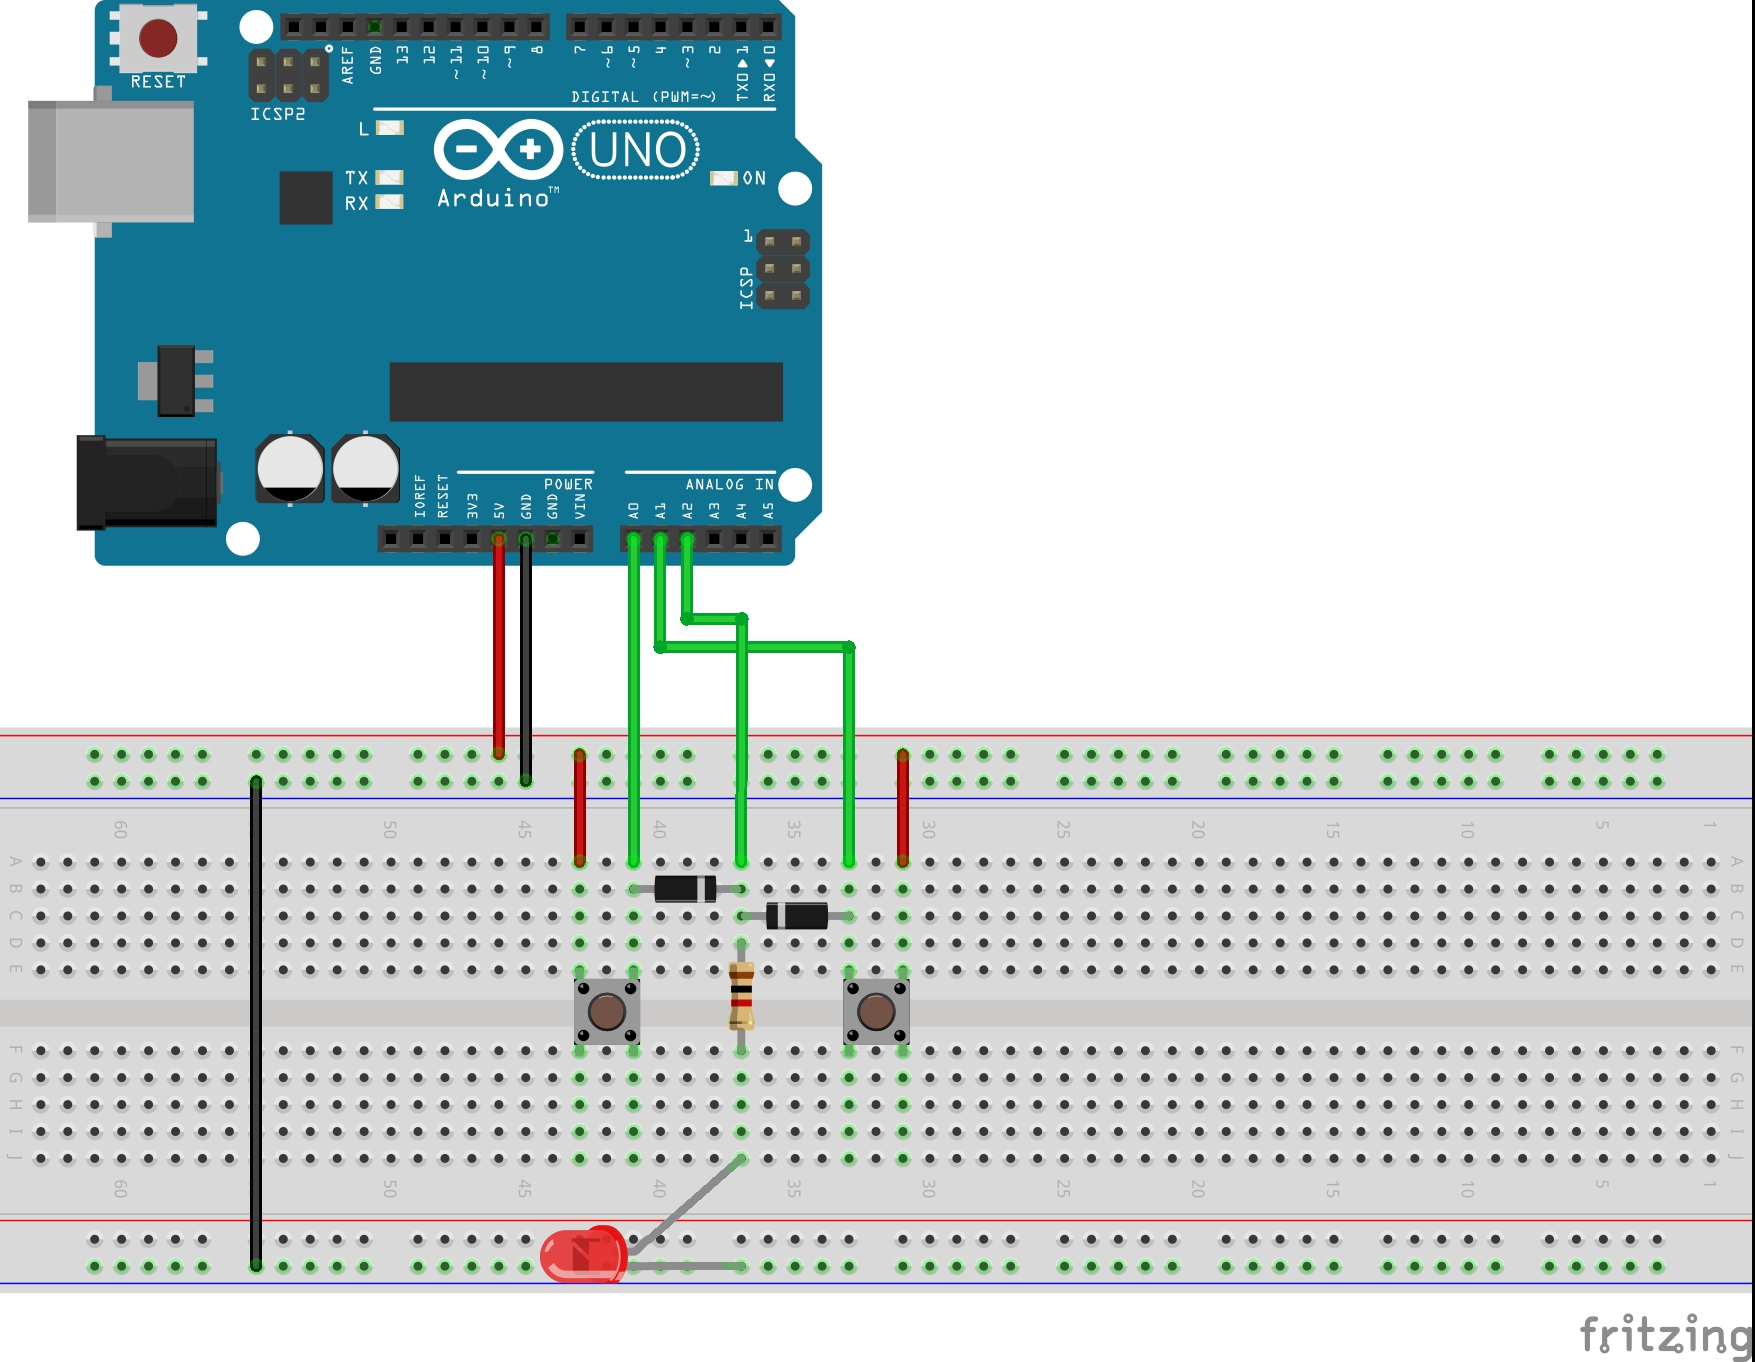
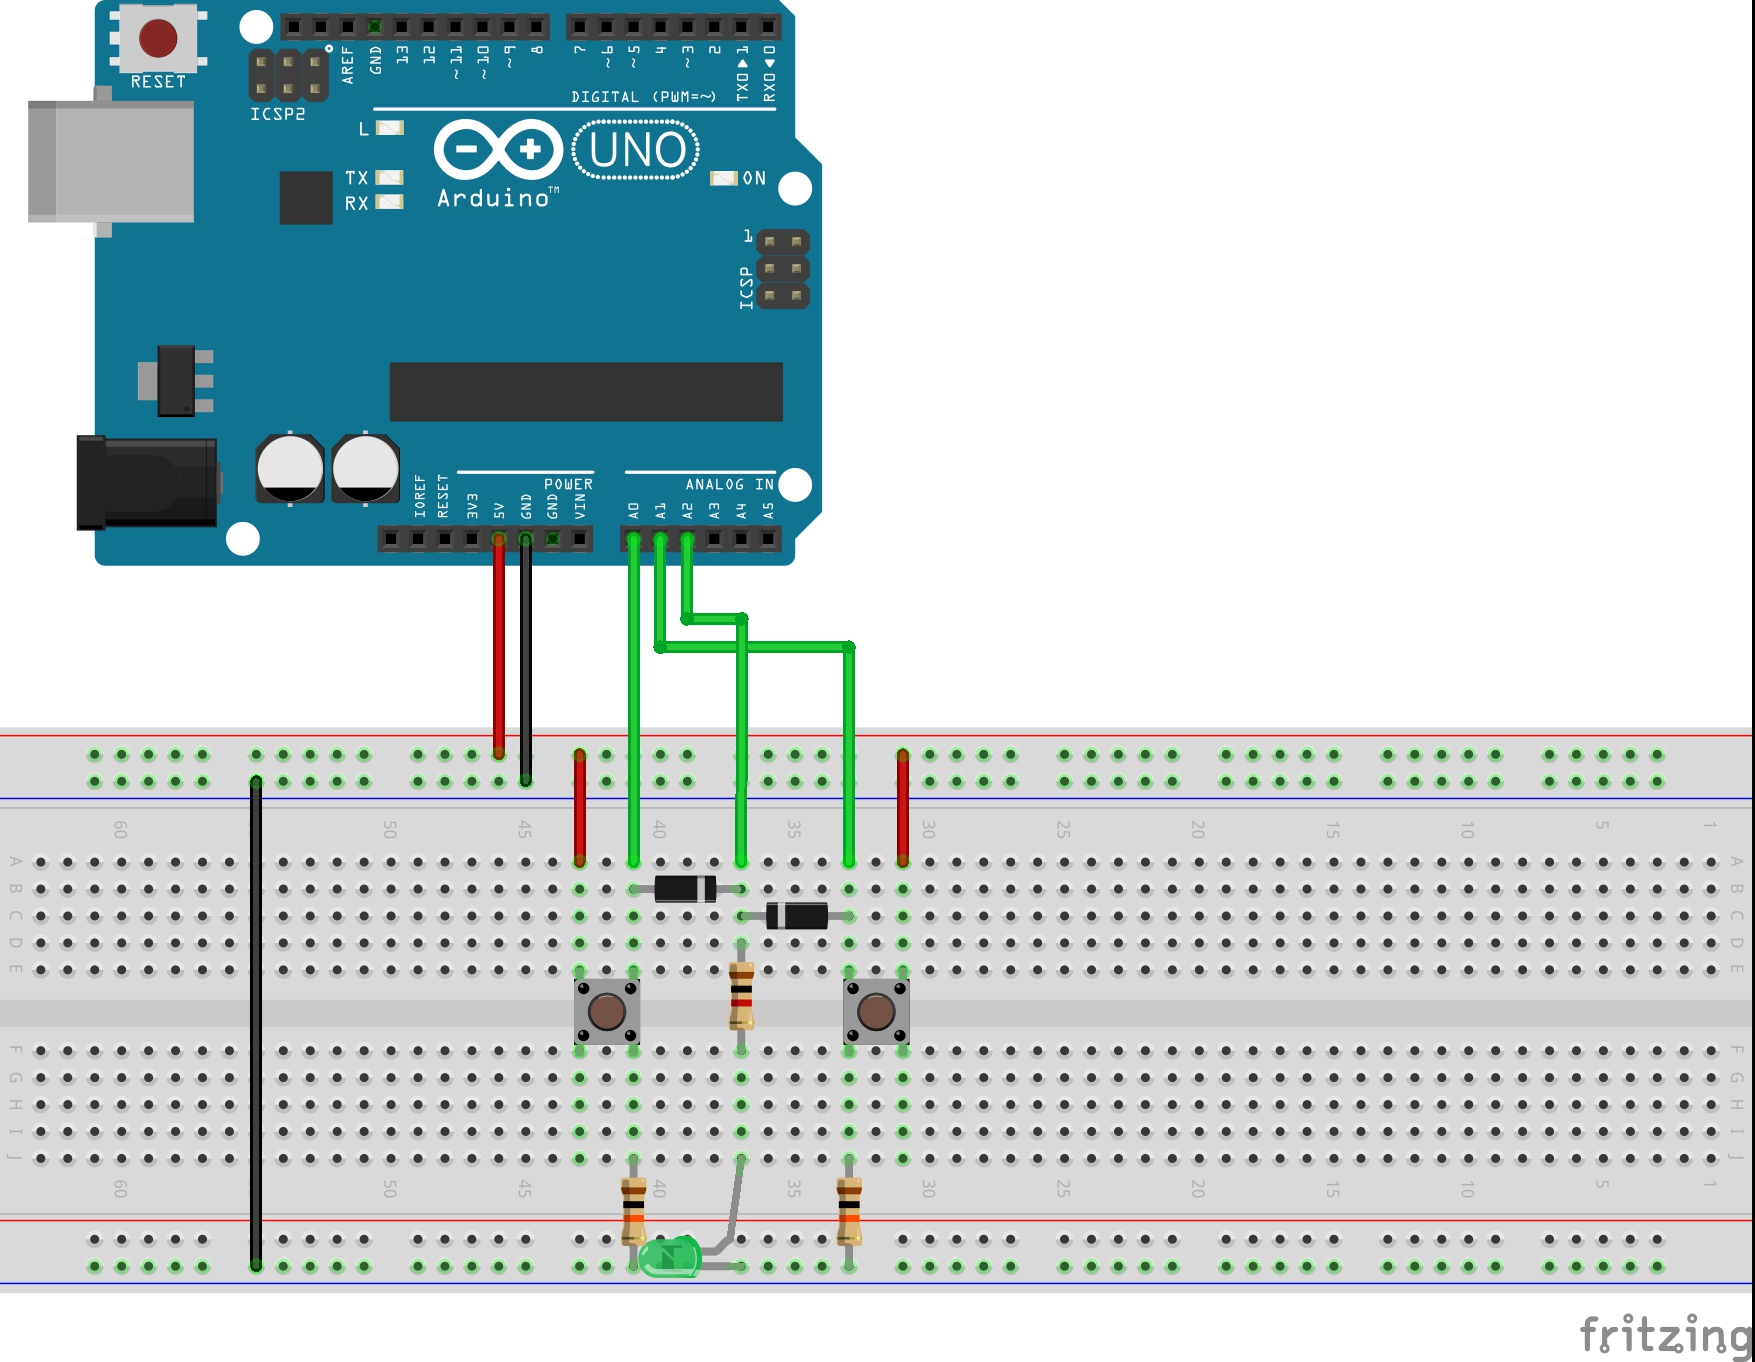
[DiodeLogic] OR improved

Changed region(s): [[0.3077, 0.8326, 0.4308, 0.9559], [0.4615, 0.8634, 0.4923, 0.9251]]

diff --git a/Electronics101/DiodeLogic/OR/README.md b/Electronics101/DiodeLogic/OR/README.md
@@ -22,14 +22,13 @@ In this circuit with VCC of 5V and where Vf is the diode forward voltage of appr
 * Out logical "0" == 0V
 * Out logical "1" == VCC - 1 x Vf ~> 4.3V
 
+Pull-down resistors R2,R3 are used to prevent floating inputs.
+
 The Arduino is not a core part of the circuit. It only does the following:
 * provides +5V power supply (for convenience)
 * measures the input and output voltages for plotting. It uses the [PlotNValues](../../../playground/PlotNValues) sketch for this purpose.
 
-Here's a sample trace, which illustrates there's lots that is not ideal:
-* the Vf drop in the output
-* with "0" input, the output is actually floating
-* "0" inputs are actually floating (hence the "ghost" reading when only one input enabled)
+Here's a sample trace:
 
 ![processing trace](./assets/processing_trace.png?raw=true)
 
